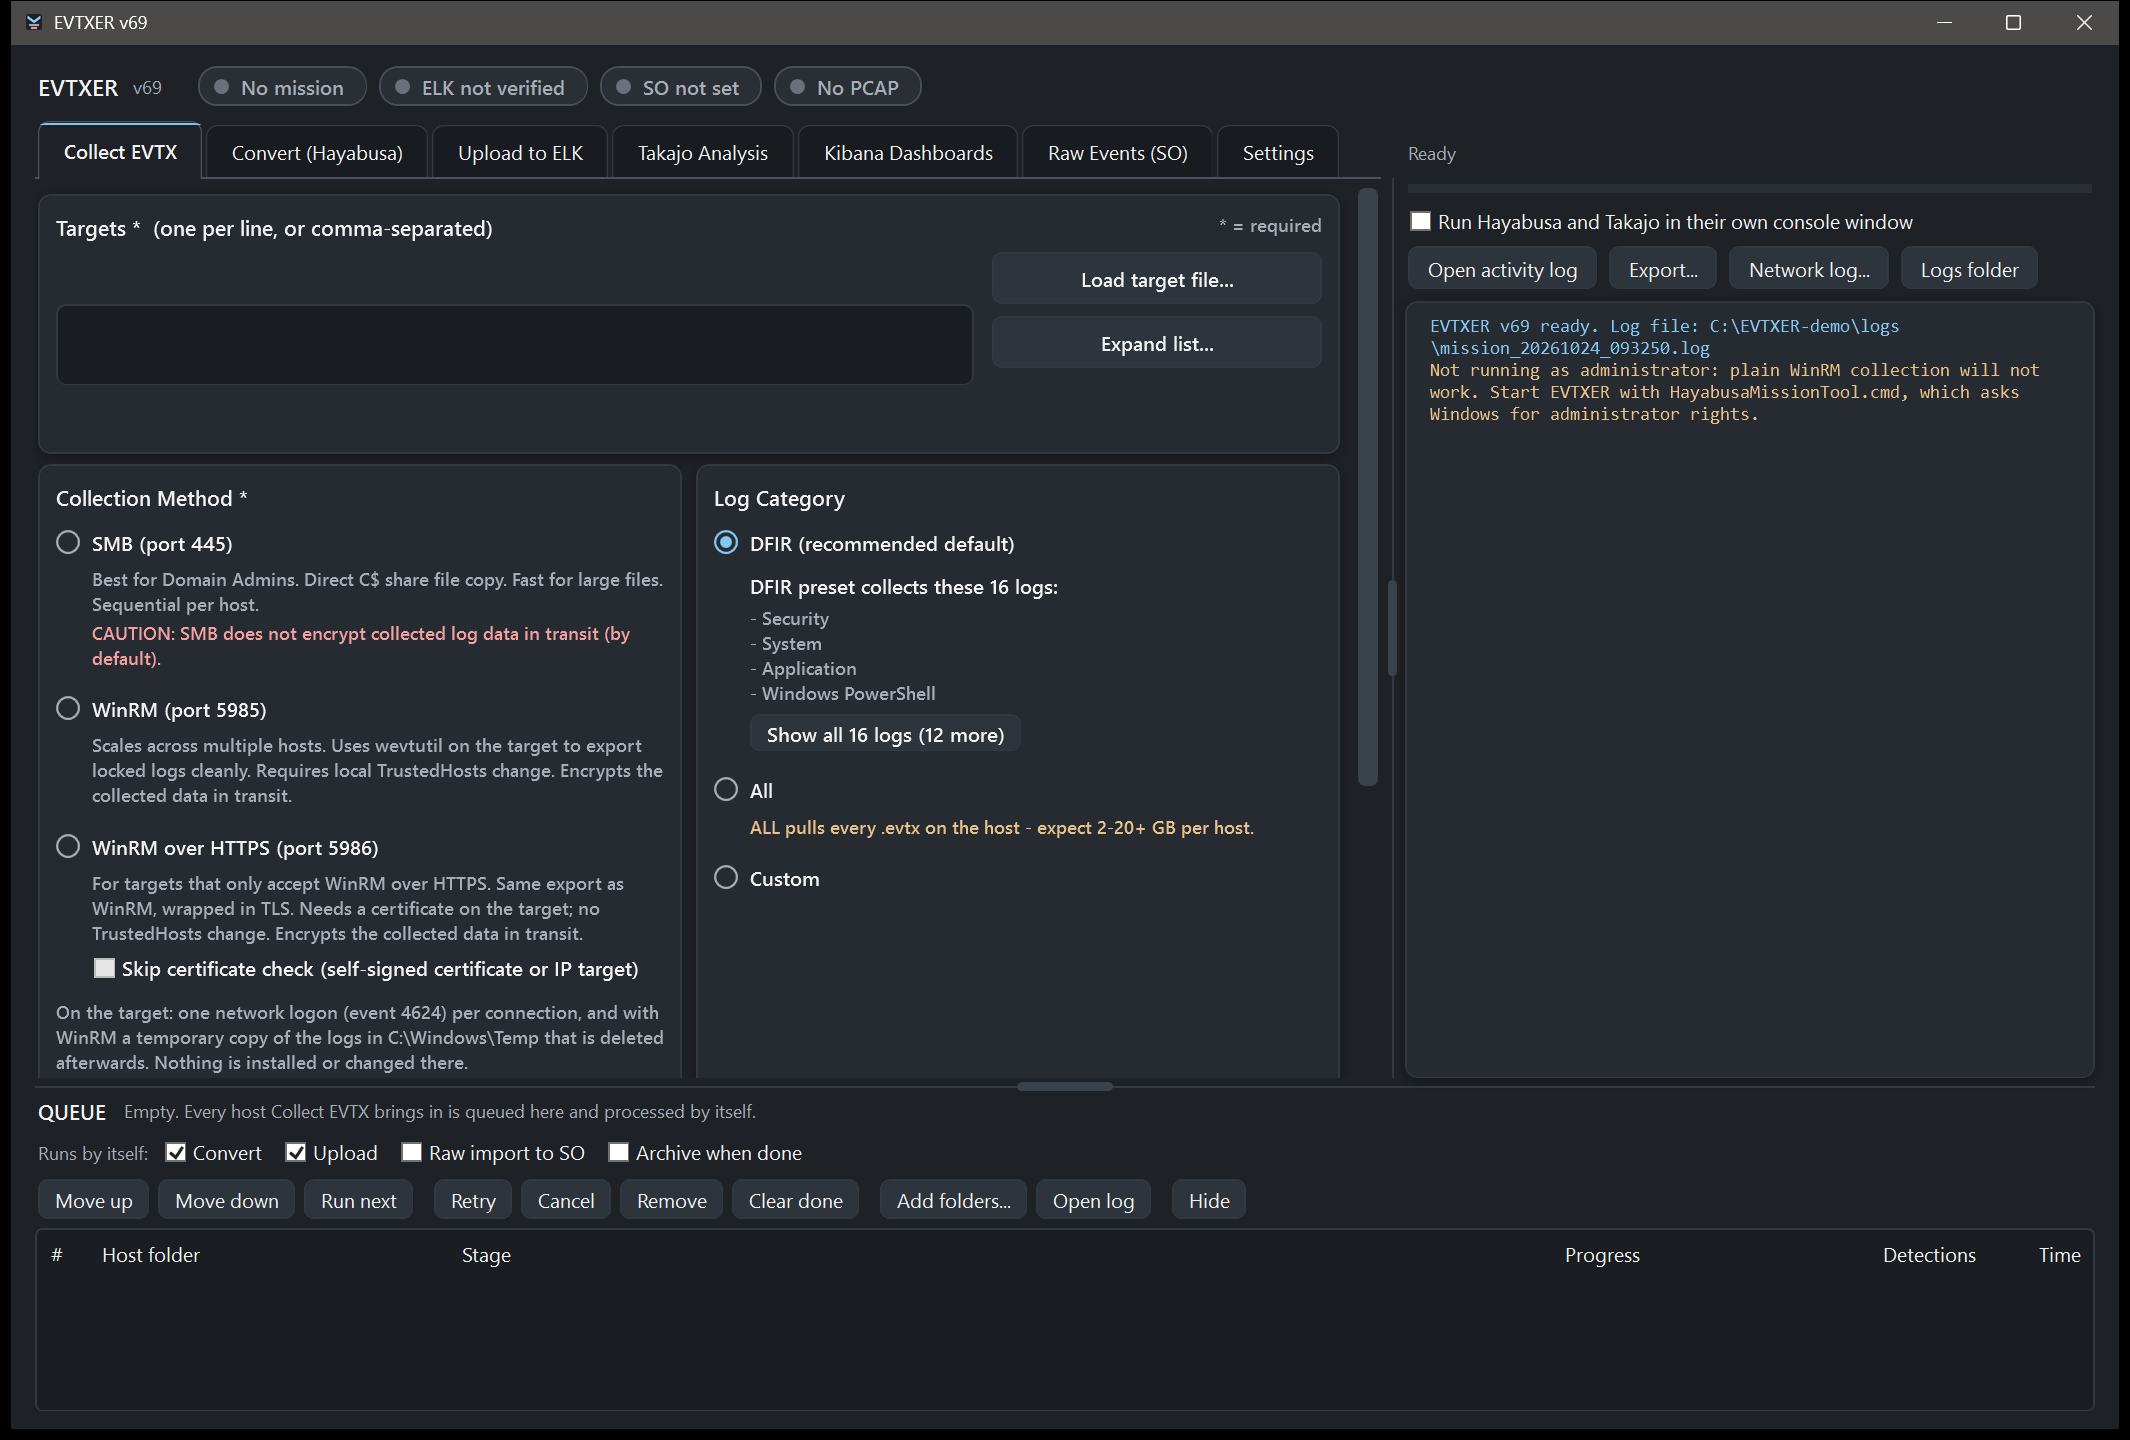
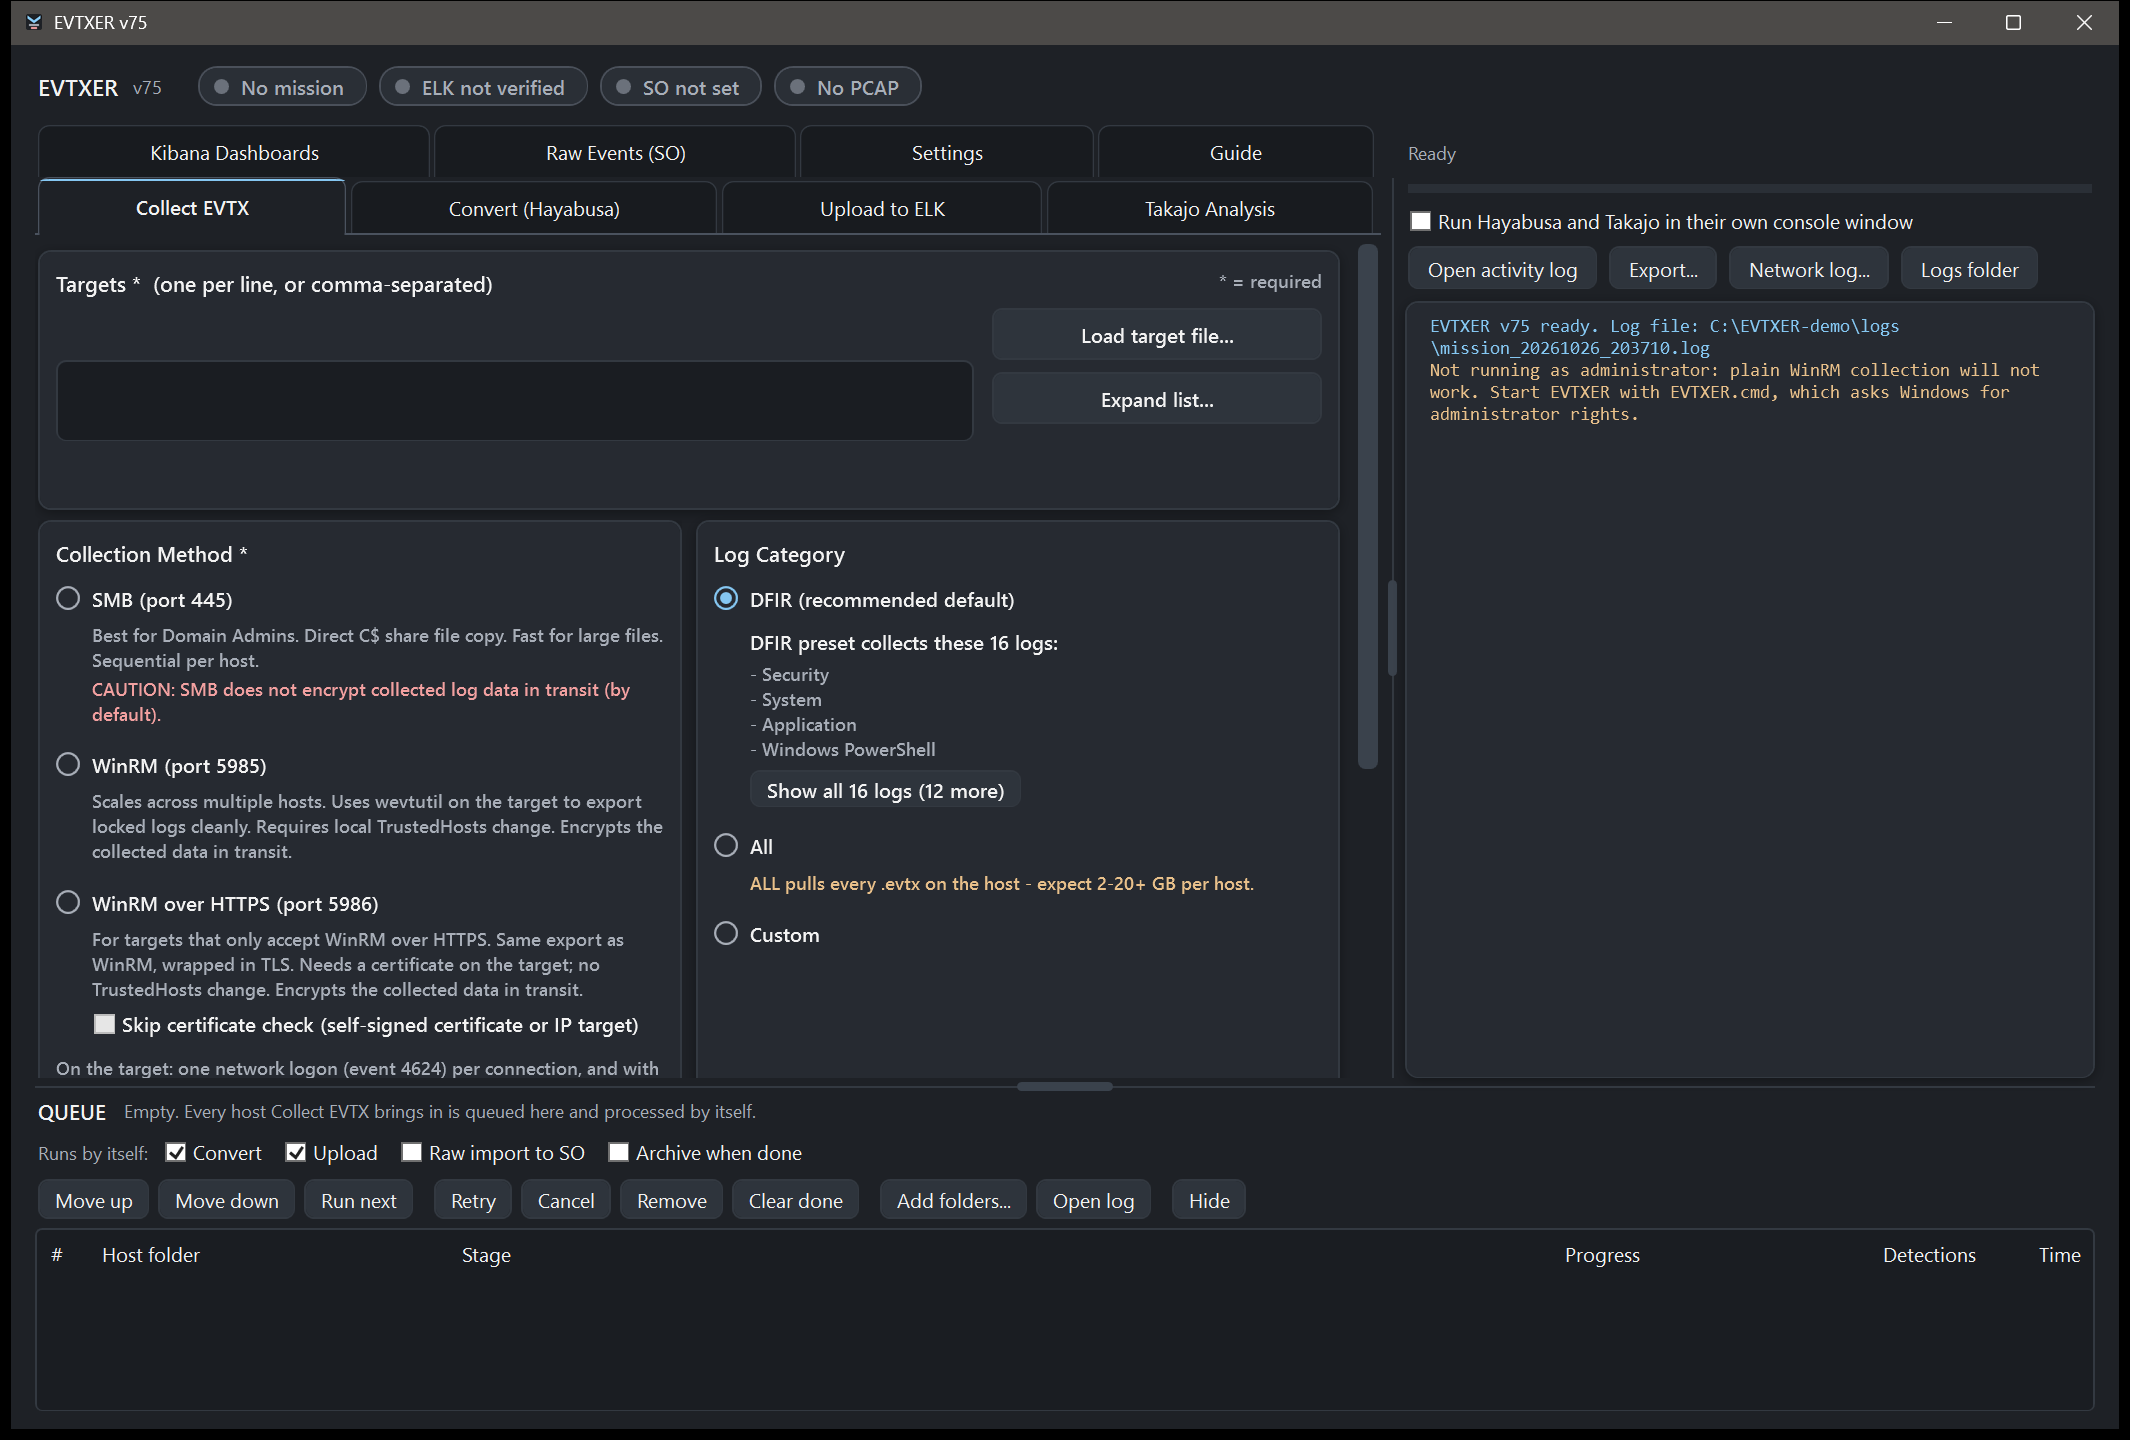
README: screenshot retaken at v75 - eight tabs and the status pills

diff --git a/README.md b/README.md
@@ -16,7 +16,7 @@
 </p>
 
 <p align="center">
-  <img src=".github/images/evtxer-window.png" width="860" alt="The EVTXER window: seven tabs, the collection options and the job queue">
+  <img src=".github/images/evtxer-window.png" width="860" alt="The EVTXER window: eight tabs, the status pills, the collection options and the job queue">
 </p>
 
 EVTXER is a Windows tool for incident responders and threat hunters. It pulls
